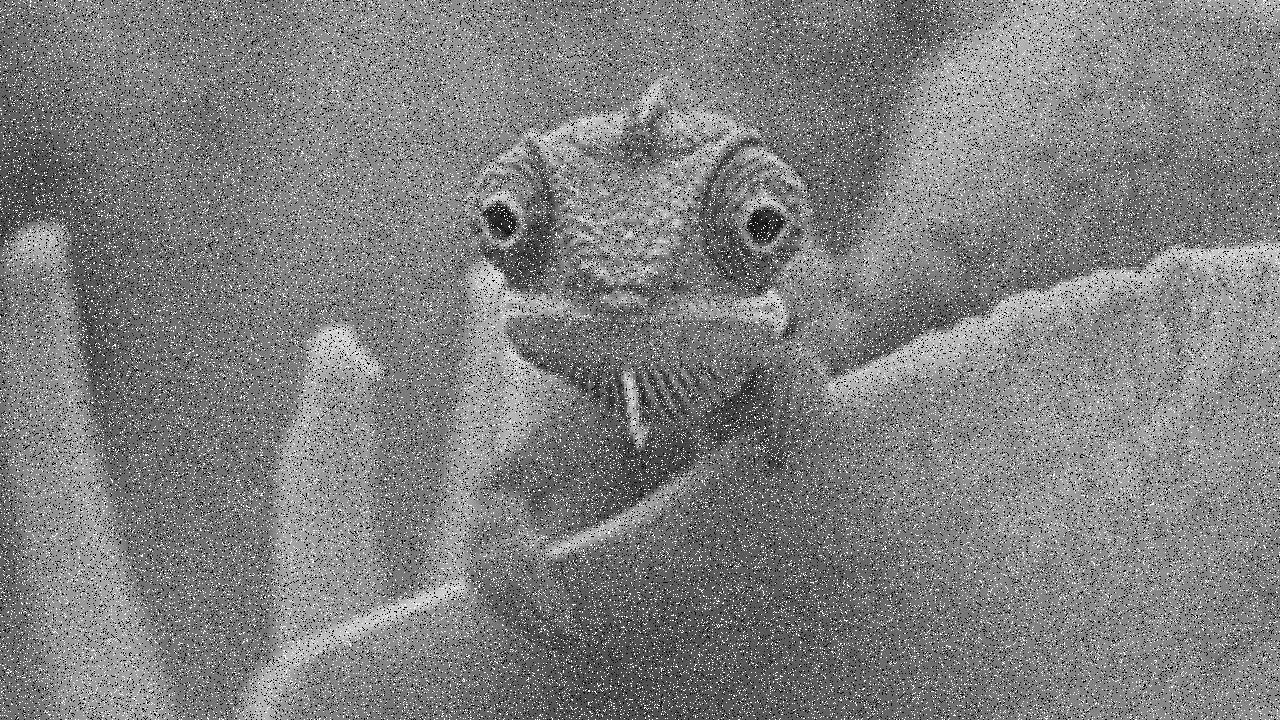
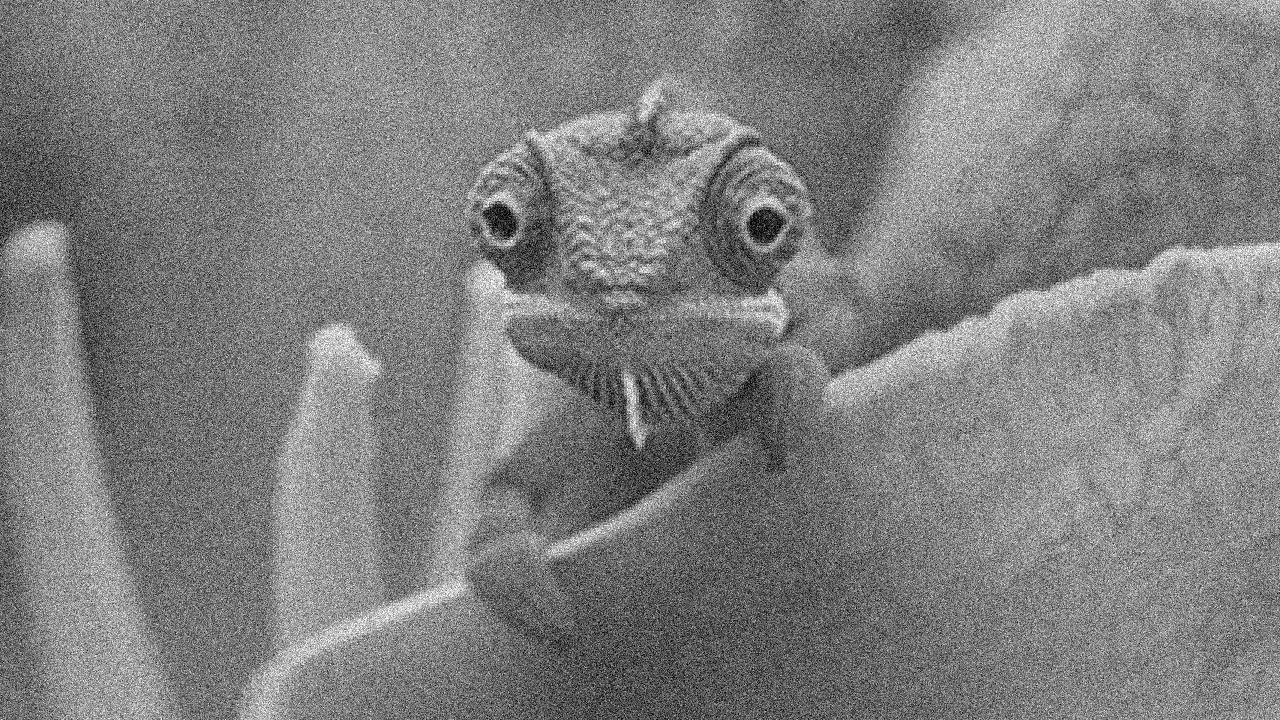
filtro bilaterale (5)

diff --git a/filters.py b/filters.py
@@ -115,3 +115,39 @@ def adaptive_median_filter(image, max_kernel_size=7):
                 filtered_image[i, j] = z_med  # fallback: usa il mediano finale
 
     return filtered_image
+
+
+import numpy as np
+
+def bilateral_filter(image, kernel_size=5, sigma_spatial=2.0, sigma_intensity=30.0):
+    """
+    Applica un filtro bilaterale fatto a mano.
+    - kernel_size: dimensione della finestra
+    - sigma_spatial: influenza della distanza (es. 2.0)
+    - sigma_intensity: influenza della differenza di intensità (es. 30.0)
+    """
+    pad = kernel_size // 2
+    padded_image = np.pad(image, pad, mode='edge')
+    filtered_image = np.zeros_like(image, dtype=np.float64)
+
+    # Pre-calcola i pesi spaziali (dipendono solo dalla posizione)
+    spatial_weights = np.zeros((kernel_size, kernel_size))
+    for i in range(kernel_size):
+        for j in range(kernel_size):
+            dx = i - pad
+            dy = j - pad
+            spatial_weights[i, j] = np.exp(-(dx**2 + dy**2) / (2 * sigma_spatial**2))
+
+    height, width = image.shape
+
+    for i in range(height):
+        for j in range(width):
+            region = padded_image[i:i+kernel_size, j:j+kernel_size]
+            intensity_diff = region - image[i, j]
+            radiometric_weights = np.exp(-(intensity_diff**2) / (2 * sigma_intensity**2))
+            total_weights = spatial_weights * radiometric_weights
+            weight_sum = np.sum(total_weights)
+            pixel_value = np.sum(region * total_weights) / weight_sum
+            filtered_image[i, j] = pixel_value
+
+    return np.clip(filtered_image, 0, 255).astype(np.uint8)

diff --git a/main.py b/main.py
@@ -1,5 +1,5 @@
 from utils import load_image, save_image, create_output_folder, add_noise
-from filters import mean_filter, gaussian_filter,median_filter,adaptive_median_filter
+from filters import mean_filter, gaussian_filter,median_filter,adaptive_median_filter,bilateral_filter
 import numpy as np
 
 def main():
@@ -14,7 +14,7 @@ def main():
     image = load_image(input_path)
 
     #  Aggiungi rumore artificiale (es. gaussiano)
-    noisy_image = add_noise(image, noise_type="salt_pepper", amount=15)
+    noisy_image = add_noise(image, noise_type="gaussian", amount=30)
     save_image(noisy_image, noisy_path)
 
   
@@ -32,8 +32,12 @@ def main():
     #filtro_descrizione = "Filtro Mediano (3x3)"
 
     # Filtro Mediano Adattivo
-    filtered_image = adaptive_median_filter(image, max_kernel_size=7)
-    filtro_descrizione = "Filtro Mediano Adattivo (fino a 7x7)"
+    #filtered_image = adaptive_median_filter(image, max_kernel_size=7)
+    #filtro_descrizione = "Filtro Mediano Adattivo (fino a 7x7)"
+
+    # Filtro Bilaterale
+    filtered_image = bilateral_filter(image, kernel_size=5, sigma_spatial=2.0, sigma_intensity=30.0)
+    filtro_descrizione = "Filtro Bilaterale (5x5, σ_spaziale = 2.0, σ_intensità = 30.0)"
 
 
 
